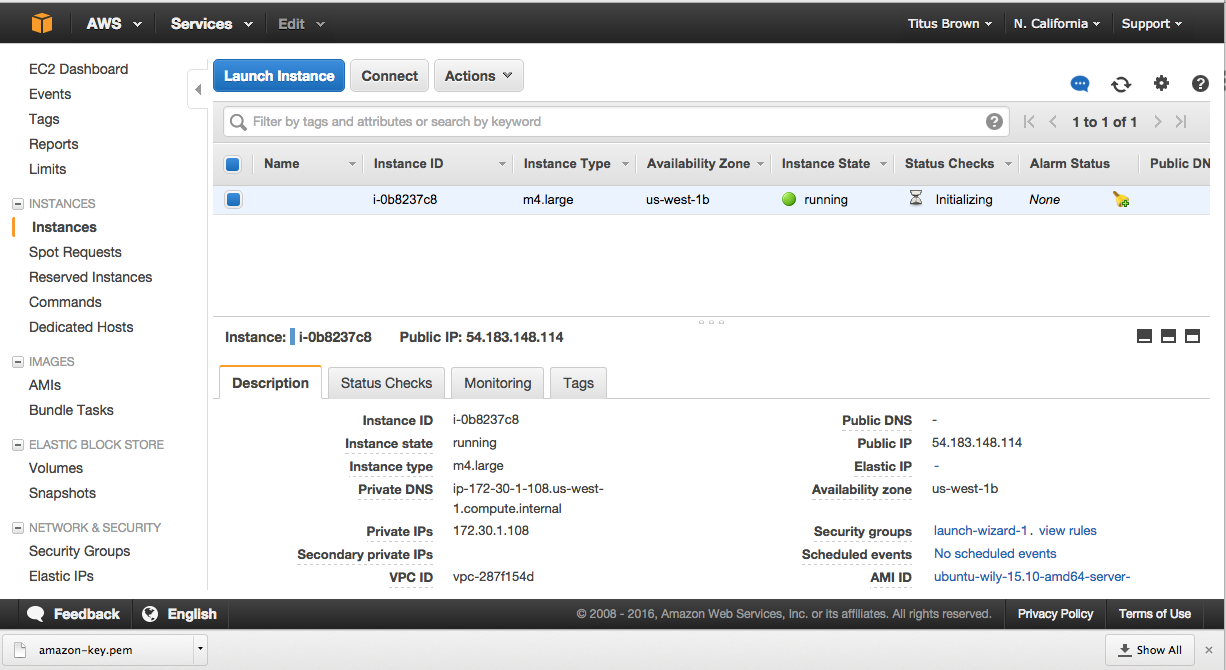
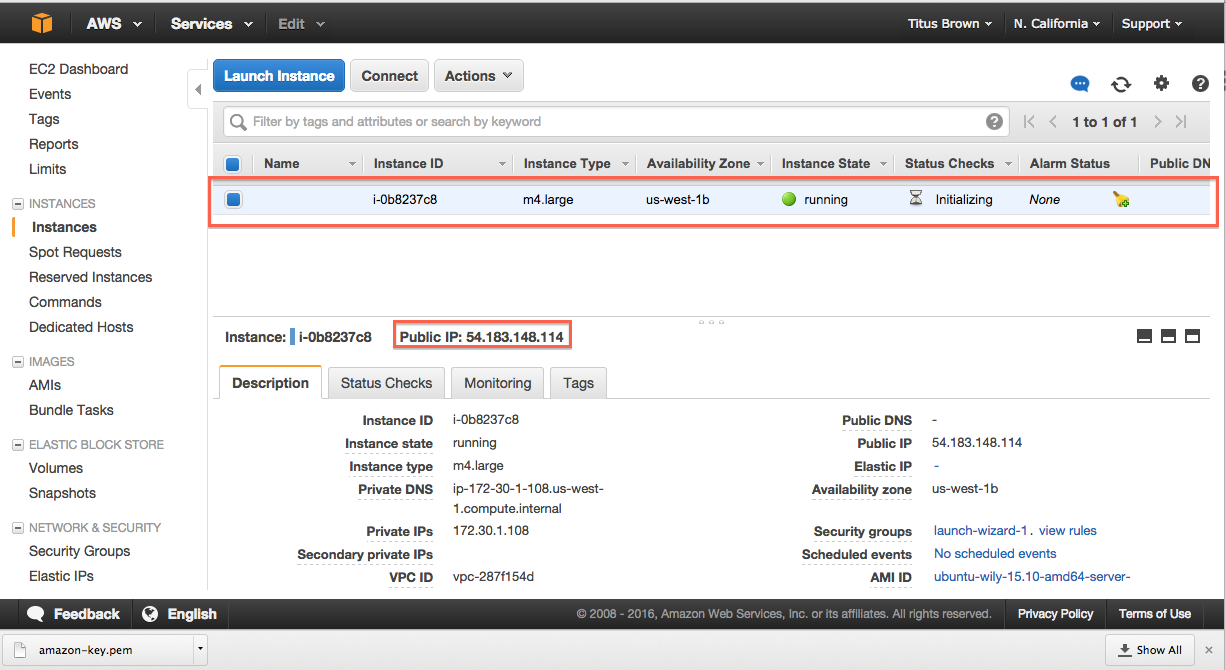
moar

Changed region(s): [[0.155, 0.2687, 1.0, 0.3582], [0.155, 0.2388, 0.9918, 0.2985], [0.31, 0.4776, 0.4649, 0.5373]]

diff --git a/boot.rst b/boot.rst
@@ -2,6 +2,11 @@
 Start an Amazon Web Services computer:
 **************************************
 
+This page shows you how to create a new "AWS instance", or a running
+computer.
+
+----
+
 Start at the Amazon Web Services console (http://aws.amazon.com/ and
 sign in to the console).
 
@@ -53,6 +58,13 @@ sign in to the console).
 9. Select "Create a new key pair."
 ==================================
 
+Note: you only need to do this the first time you create an instance.
+If you know where your amazon-key.pem file is, you can select 'Use an
+existing key pair' here.  But you can always create a new key pair if
+you want, too.
+
+If you have an existing key pair, go to step 12, "Launch instance."
+
 .. thumbnail:: images/boot-6.png
    :width: 20%
 
@@ -70,6 +82,16 @@ sign in to the console).
 
 .. thumbnail:: images/boot-8.png
    :width: 20%
+
+14. Bask in the glory of your running instance
+==============================================
+
+Note that for your instance name you can use either "Public IP" or
+"Public DNS". Here, the machine only has a public IP.
+
+.. thumbnail:: images/boot-9.png
+   :width: 20%
+
 
 @@
 You can now :doc:`login-shell` or :doc:`configure-network`.

diff --git a/index.rst b/index.rst
@@ -6,10 +6,23 @@
 Welcome to the 2016 February AWS tutorial
 =========================================
 
+This is the documentation for a workshop on Amazon Web Services, offered
+at UC Davis (and broadcast online) on March 7, 2016.  `The workshop page is here. <https://dib-training.readthedocs.org/en/pub/2016-03-03-aws-br.html>`__
+
+Start here: :doc:`boot`
+-----------------------
+
+`Click here to go to the workshop etherpad <https://etherpad.wikimedia.org/p/2016-feb-aws>`__
+~~~~~~~~~~~~~~~~~~~~~~~~~~~~~~~~~~~~~~~~~~~~~~~~~~~~~~~~~~~~~~~~~~~~~~~~~~~~~~~~~~~~~~~~~~~~~
+
+Full table of contents:
+-----------------------
+
 .. toctree::
    :maxdepth: 2
 
    boot
+   login-shell
 
 
 Indices and tables
